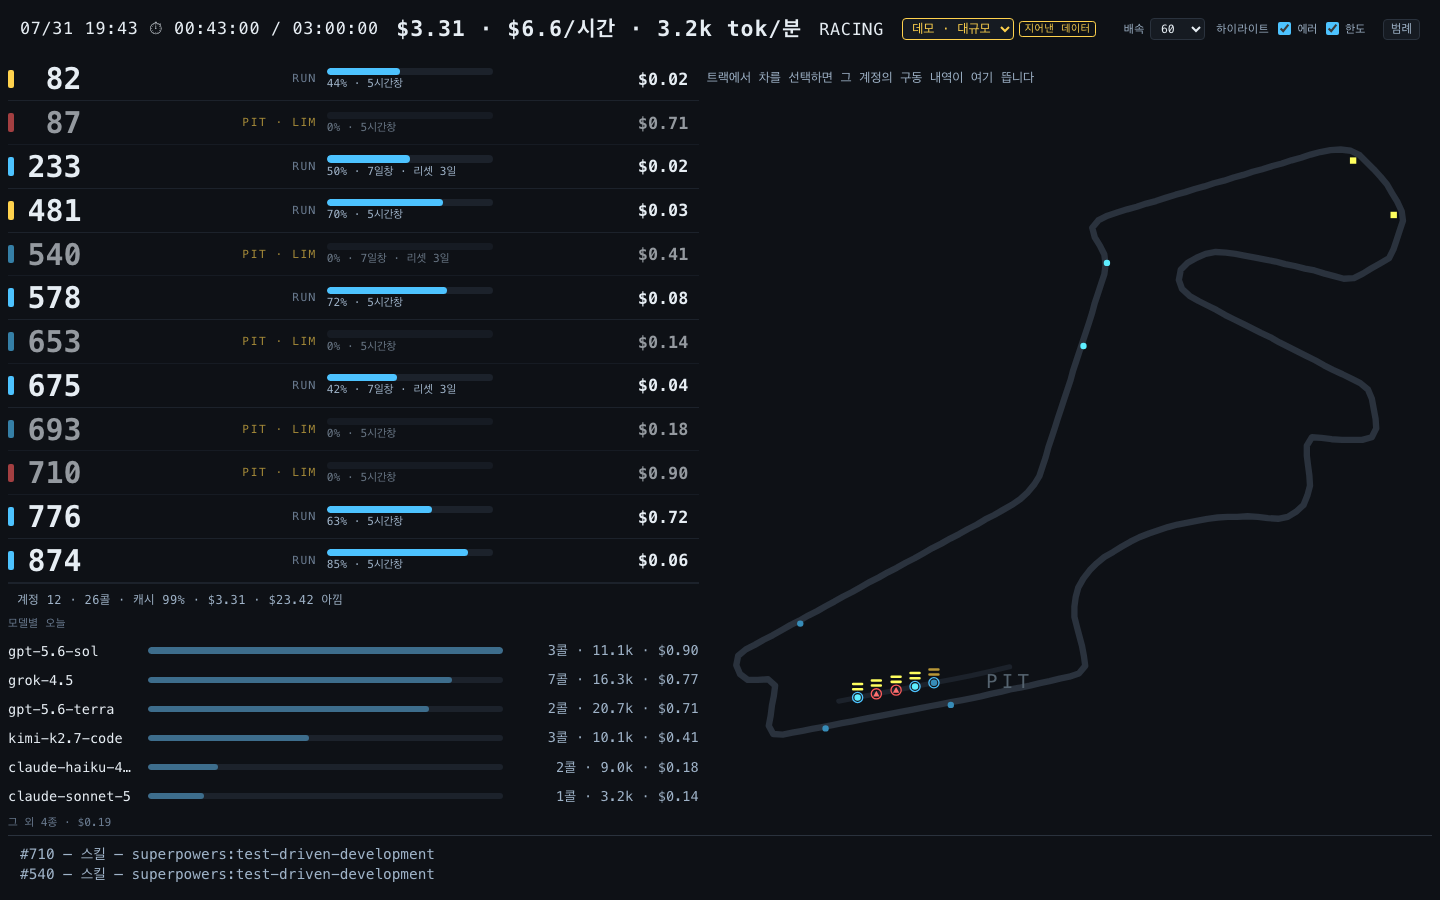
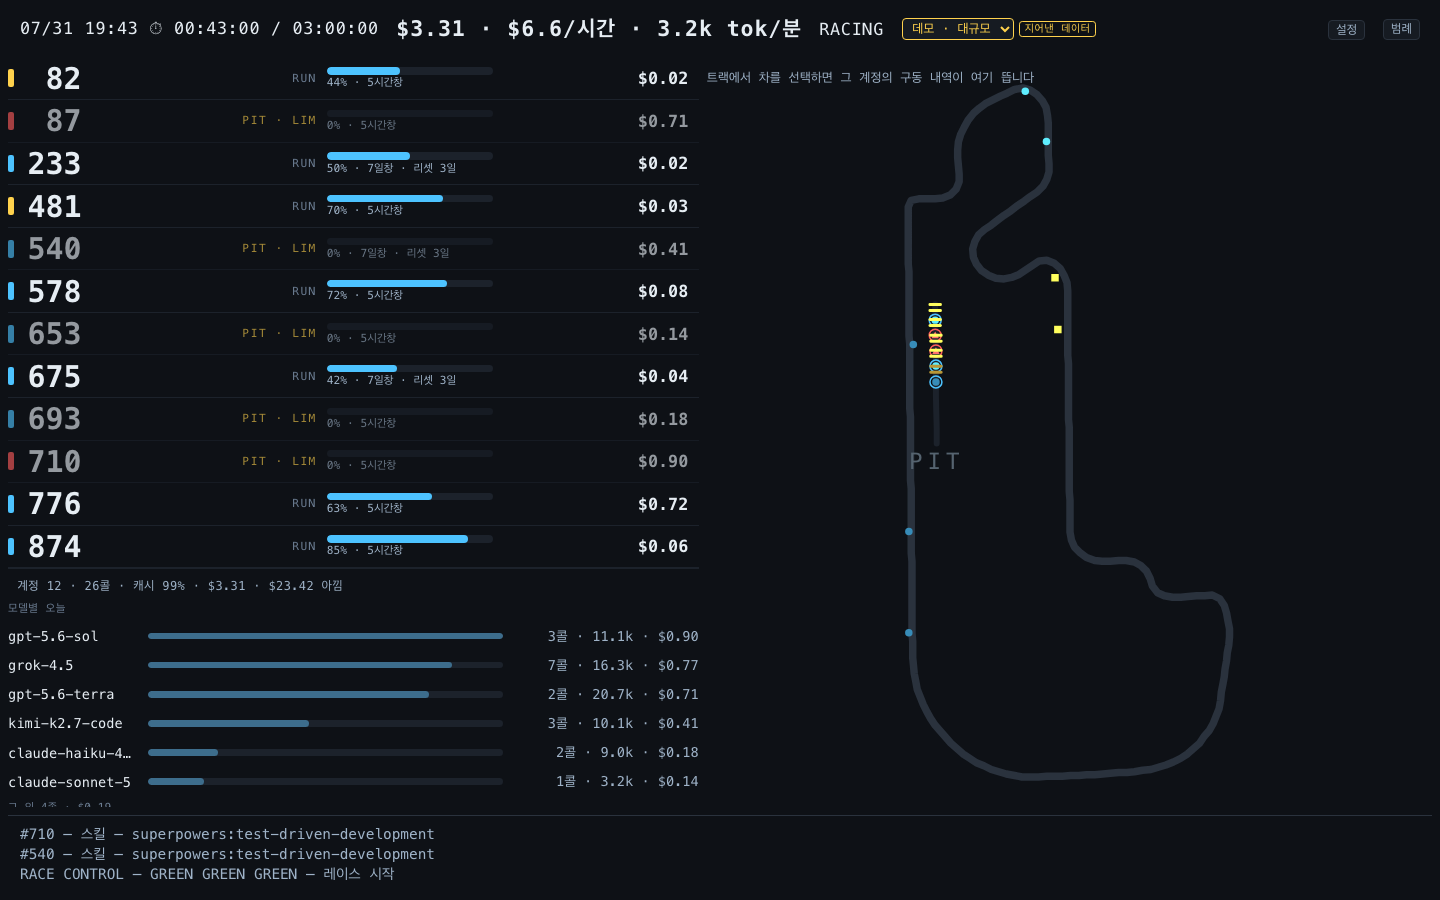
fix: stop cutting a control down the middle
The settings sat unfolded in the top bar with overflow: hidden behind
them. The intent was right - controls should yield before facts do - but
the cut lands on pixels, not on items. At 1440x900 with the dataset picker
and the synthetic-data badge in the bar, the limit-highlight checkbox was
sliced in half: a blue sliver, no label, no way to tell whether it was on.
A control you cannot read the state of is worse than one that is not
there.

The legend already solved this. It is a button that folds a fixed panel,
because a screen you leave up all day should not carry its controls in
front of you the whole time. The settings use the same rules now, and the
two share one set of declarations rather than growing a second copy - one
toggle style, one panel style, one data-open contract.

Removing the salary slot in the previous commit had already bought back
enough width that nothing clips today at this size. That is a coincidence
of one viewport, not a fix; the slicing returns on any narrower window.
This removes the condition instead of the symptom.

Two panels can now open over each other at the same anchor. Not solved -
it has never been hit, and mutual exclusion is a coordinator neither of
them needs yet.

Claude-Session: https://claude.ai/code/session_017YffAr1PYF558oFPwR849V

diff --git a/pitwall/src/style.css b/pitwall/src/style.css
@@ -246,28 +246,40 @@ body {
  */
 .hud-pace { font-size: 1.35rem; font-weight: 700; }
 
-/* 범례 — 기본은 접힘. 상시 노출 화면에서 늘 떠 있으면 그 자체가 방해다. */
-.legend { position: relative; flex-shrink: 0; }
-.legend-toggle {
+/*
+ * 범례와 조작판 — 둘 다 기본은 접힘.
+ *
+ * 상시 노출 화면에서 늘 떠 있으면 그 자체가 방해다. 조작판은 원래 상단 바에
+ * 펼쳐져 있었는데, 넘칠 때 `overflow: hidden`이 **항목이 아니라 픽셀 단위로**
+ * 잘라서 실측 1440×900에서 `한도` 체크박스가 파란 조각만 남았다. 반쯤 잘린
+ * 컨트롤은 상태를 못 읽으니 없는 것보다 나쁘다. 범례가 이미 쓰던 방식으로 합친다.
+ */
+.legend, .settings { position: relative; flex-shrink: 0; }
+.legend-toggle, .settings-toggle {
   background: #161b22; color: #9fb3c8; border: var(--hair) solid #2a323d;
   border-radius: 0.25rem; padding: 0.1rem 0.45rem; font: inherit; font-size: 0.75rem;
   cursor: pointer;
 }
-.legend-toggle:hover { color: #e6edf3; border-color: #4dc3ff; }
-.legend[data-open="false"] .legend-body { display: none; }
+.legend-toggle:hover, .settings-toggle:hover { color: #e6edf3; border-color: #4dc3ff; }
+.legend[data-open="false"] .legend-body,
+.settings[data-open="false"] .settings-body { display: none; }
 /*
  * 화면에 고정한다. 상단 바가 줄바꿈을 막으려고 넘침을 자르는데, 그 안에
  * 절대 위치로 띄우면 같이 잘린다 — 열어도 아무것도 안 보였다.
  */
-.legend-body {
+.legend-body, .settings-body {
   position: fixed; right: 0.6rem; top: 3rem; z-index: 20;
-  margin: 0; padding: 0.7rem 0.9rem; width: 26rem;
-  display: grid; grid-template-columns: 7rem 1fr; gap: 0.35rem 0.8rem;
+  margin: 0; padding: 0.7rem 0.9rem;
   background: #161b22f2; border: var(--hair) solid #2a323d; border-radius: 0.4rem;
   font-size: 0.72rem; line-height: 1.45; backdrop-filter: blur(6px);
 }
+.legend-body {
+  width: 26rem; display: grid; grid-template-columns: 7rem 1fr; gap: 0.35rem 0.8rem;
+}
 .legend-body dt { color: #e6edf3; white-space: nowrap; }
 .legend-body dd { margin: 0; color: #9fb3c8; }
+/* 세로로 쌓는다. 가로로 두면 접은 이유(폭이 모자람)를 판 안에서 반복한다. */
+.settings-body { display: flex; flex-direction: column; gap: 0.55rem; }
 
 /*
  * 무엇을 보고 있는가 — 실시간인지, 실기록인지, 지어낸 것인지.
@@ -287,13 +299,10 @@ body {
   border: var(--hair) solid #ffd24d; border-radius: 0.2rem; padding: 0.04rem 0.28rem;
 }
 
-.settings {
-  margin-left: auto; display: flex; align-items: center; flex-wrap: nowrap;
-  gap: 0.7rem; font-size: 0.72rem; min-width: 0; overflow: hidden;
-  flex: 0 1 auto;
-}
+/* 오른쪽 끝으로 민다. 자르지 않는다 — 버튼 하나라 자를 것이 없다. */
+.settings { margin-left: auto; }
 .settings-field, .settings-group {
-  display: flex; align-items: center; gap: 0.3rem; white-space: nowrap;
+  display: flex; align-items: center; gap: 0.4rem; white-space: nowrap;
 }
 .settings-label, .settings-check { white-space: nowrap; }
 .settings-label { color: #9fb3c8; letter-spacing: 0.06em; }

diff --git a/pitwall/src/render/settingsPanel.ts b/pitwall/src/render/settingsPanel.ts
@@ -9,6 +9,12 @@ import type { HighlightType } from '../track/trackModel';
  * **하한이 걸린 값은 노출하지 않는다.** 슬라이더를 보여주고 런타임이 되돌리는 것은
  * 안 보여주는 것보다 나쁘다 — 사용자는 자기가 바꾼 값이 먹었다고 믿게 된다 (PRD §7.0).
  * 여기 있는 항목은 전부 자유롭게 조정 가능한 것들이다.
+ *
+ * **접힌다.** 예전에는 조작판이 상단 바에 펼쳐져 있었고, 넘치면 `overflow: hidden`이
+ * 잘랐다. 자르는 단위가 항목이 아니라 픽셀이라 실측 1440×900에서 `한도` 체크박스가
+ * 파란 조각만 남고 라벨이 사라졌다 — 켜졌는지 꺼졌는지 알 수 없는 컨트롤은
+ * 없는 것보다 나쁘다. 범례가 쓰는 방식을 그대로 쓴다: 버튼 하나로 접고, 열면
+ * 화면에 고정한 판으로 띄운다. 상시 노출 화면에서 조작판이 늘 떠 있을 이유도 없다.
  */
 const PRESETS: PresetName[] = ['busy', 'sparse', 'chaos', 'real'];
 const SPEEDS: PitwallSettings['speed'][] = [1, 60, 600];
@@ -44,8 +50,21 @@ export class SettingsPanel {
   ) {
     this.settings = initial;
 
+    const shell = document.createElement('div');
+    shell.className = 'settings hud-item';
+    shell.setAttribute('data-open', 'false');
+
+    const toggle = document.createElement('button');
+    toggle.className = 'settings-toggle';
+    toggle.type = 'button';
+    toggle.textContent = '설정';
+    toggle.title = '배속·하이라이트 같은 조작판';
+    toggle.addEventListener('click', () => {
+      shell.setAttribute('data-open', shell.getAttribute('data-open') === 'true' ? 'false' : 'true');
+    });
+
     const root = document.createElement('div');
-    root.className = 'settings';
+    root.className = 'settings-body';
 
     // 프리셋은 시뮬레이터 전용이다. 기록을 재생 중일 때 띄워두면 아무 효과가
     // 없는 조작판이 되어, 눌러도 안 바뀌는 것을 고장으로 읽게 된다.
@@ -93,7 +112,8 @@ export class SettingsPanel {
     // DEMO 시계도 시뮬레이터 전용이다. 기록 재생과 실시간에는 진짜 시계가 있어
     // 이 체크박스가 아무것도 바꾸지 않는다 — 눌러도 반응이 없으면 고장으로 읽힌다.
     if (!opts.simulated) {
-      container.appendChild(root);
+      shell.append(toggle, root);
+      container.appendChild(shell);
       return;
     }
 
@@ -113,7 +133,8 @@ export class SettingsPanel {
     demo.append(demoBox, demoText);
     root.appendChild(demo);
 
-    container.appendChild(root);
+    shell.append(toggle, root);
+    container.appendChild(shell);
   }
 
   private select(

diff --git a/pitwall/tests/settings.test.ts b/pitwall/tests/settings.test.ts
@@ -134,6 +134,29 @@ describe('설명과 노출', () => {
     expect(host.textContent).toContain('DEMO');
   });
 
+  /*
+   * 접혀 있어야 한다. 펼쳐 두면 상단 바가 넘칠 때 `overflow: hidden`이 컨트롤
+   * 한가운데를 잘라, 켜졌는지 알 수 없는 체크박스가 남는다.
+   */
+  it('기본은 접힘이고 버튼으로 연다', () => {
+    const host = document.createElement('div');
+    new SettingsPanel(host, DEFAULT_SETTINGS, () => {}, { simulated: true });
+    const shell = host.querySelector('.settings')!;
+    expect(shell.getAttribute('data-open')).toBe('false');
+    (host.querySelector('.settings-toggle') as HTMLElement).click();
+    expect(shell.getAttribute('data-open')).toBe('true');
+    (host.querySelector('.settings-toggle') as HTMLElement).click();
+    expect(shell.getAttribute('data-open')).toBe('false');
+  });
+
+  it('기록 재생 중에도 접힌 채로 나온다 — 항목만 줄어든다', () => {
+    const host = document.createElement('div');
+    new SettingsPanel(host, DEFAULT_SETTINGS, () => {}, { simulated: false });
+    expect(host.querySelector('.settings')!.getAttribute('data-open')).toBe('false');
+    expect(host.querySelector('.settings-toggle')).not.toBeNull();
+    expect(host.querySelector('.settings-body')).not.toBeNull();
+  });
+
   it('모든 조작에 설명이 붙는다 — 이름만으로는 뭘 하는지 모른다', () => {
     const host = document.createElement('div');
     new SettingsPanel(host, DEFAULT_SETTINGS, () => {}, { simulated: true });

diff --git a/docs/superpowers/specs/2026-07-31-uiux-prd.md b/docs/superpowers/specs/2026-07-31-uiux-prd.md
@@ -1,6 +1,6 @@
 # PITWALL — UI/UX 개선 PRD
 
-**v1.1** · 2026-07-31 · 상태: **P0-1 · P1-3 · P1-4 반영 완료.** P1-1 · P1-2 미착수
+**v1.2** · 2026-07-31 · 상태: **P0-1 · P1-2 · P1-3 · P1-4 반영 완료.** P1-1만 미착수
 근거: [2차 벤치마크 §7](../../reference/2026-07-31-usage-visualisation-benchmark.md) ·
 스크린샷 `docs/screenshots/2026-07-31-before-*.png`(수정 전) / `2026-07-31-{real,dense}.png`(수정 후)
 
@@ -265,6 +265,7 @@ N1(스킬 판 기각) · N2(훅 기각) · N3(빈 화면 유지) · P1-4(죽은 
 | P1-3 | 연봉 미설정 시 HUD 칸을 안 그린다 | `main.ts` |
 | P1-3 | 속도·비용 덩어리 `1.35rem`/700 | `style.css` `.hud-pace` |
 | P1-4 | `CarEvent.agent` · `sidechain` 삭제 | `types.ts` · `claudeCodeImport.ts` · `feedRenderer.ts` |
+| P1-2 | 조작판을 `설정` 버튼 뒤로 접는다 — 범례와 같은 규칙을 공유 | `settingsPanel.ts` · `style.css` |
 | D4 | 선택 없을 때 `—` 대신 안내문 | `feedRenderer.ts` |
 | 요청 | **무슨 스킬을 쓰는 중인지 무전에 한 줄** | `types.ts`(`CarState.skill`) · `reducer.ts` · `eventRadio.ts` |
 | 요청 | 더미 스킬 비율 25% → **실측 6.7%** | `makeDemo.ts` |
@@ -274,9 +275,14 @@ N1(스킬 판 기각) · N2(훅 기각) · N3(빈 화면 유지) · P1-4(죽은 
 비중을 주장하지 않으므로 6.7%가 100%인 척하지 않는다. 진입만 알리고 종료는 안 알리는데,
 귀속이 6.7%뿐이라 "다음 호출에 스킬이 없다"가 스킬이 끝났다는 뜻이 아니기 때문이다.
 
-**측정.** `npm test` 584개 통과(43파일) · `npx tsc --noEmit` 클린 ·
+**측정.** `npm test` 586개 통과(43파일) · `npx tsc --noEmit` 클린 ·
 `npm run shot` 재촬영으로 카넘버 10개 전부 온전, 조작판 `에러`·`한도` 둘 다 보임,
 무전에 `#710 — 스킬 — superpowers:test-driven-development` 출력 확인.
+조작판은 `설정` 버튼으로 접히고, 열면 `배속`·`하이라이트 에러/한도`가 잘림 없이 나온다.
+
+**남은 것.** 범례와 조작판이 같은 자리(`right: 0.6rem; top: 3rem`)에 뜬다 — 둘 다 열면
+겹친다. 상호 배제를 넣지 않은 이유는 관측된 적이 없기 때문이다. 겹침이 실제로 걸리면
+그때 넣는다.
 
 ---
 
